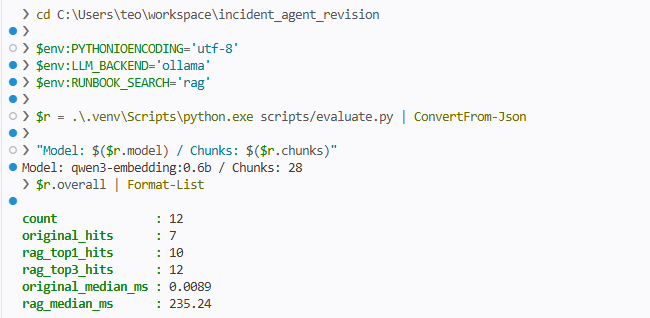
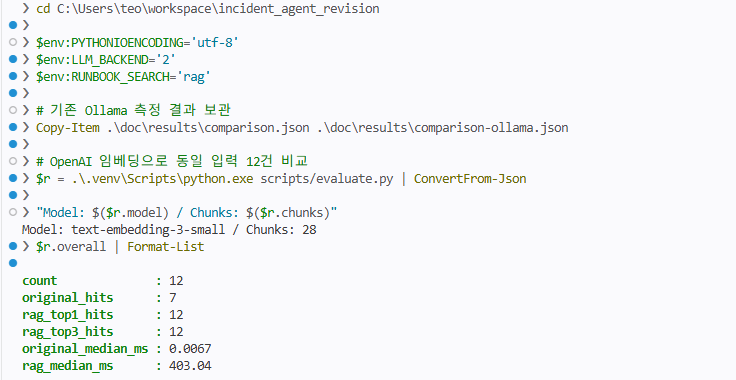
OpenAI 임베딩 검색 비교 결과 반영

Changed region(s): [[0.0, 0.0, 0.8, 0.9906]]

diff --git a/README.md b/README.md
@@ -136,7 +136,7 @@ scripts/                  설치·실행·검증 명령
 
 ![실제 OpenAI 모델의 조사·검증·최종 답변 실행 결과](docs/screenshots/final-result.png)
 
-위 기능 화면은 실제 OpenAI 모델(gpt-4o-mini·gpt-4o)과 text-embedding-3-small 임베딩 검색을 연결해 촬영했다. 자동 테스트에서는 fake 모델을 사용하고, 검색 비교는 Ollama 임베딩의 측정값을 별도로 유지한다.
+위 기능 화면은 실제 OpenAI 모델(gpt-4o-mini·gpt-4o)과 text-embedding-3-small 임베딩 검색을 연결해 촬영했다. 자동 테스트에서는 fake 모델을 사용하고, 검색 비교는 같은 OpenAI 임베딩으로 별도 측정했다.
 
 ### 시연 입력
 
@@ -175,15 +175,15 @@ MCP 하위 프로세스는 실제로 연결하며, 그래프의 `search_runbook`
 
 ### 검색 개선 전후
 
-질문 6개를 `알림 있음`과 `질문만 있음`으로 나눈 고정 입력 12건을 사용했다. 기존 규칙은 원본의 키워드 분류와 미매칭 시 DB Down 선택을 재현했다. RAG는 `qwen3-embedding:0.6b`를 사용했다.
+질문 6개를 `알림 있음`과 `질문만 있음`으로 나눈 고정 입력 12건을 사용했다. 기존 규칙은 원본의 키워드 분류와 미매칭 시 DB Down 선택을 재현했다. RAG는 OpenAI의 `text-embedding-3-small`을 사용했다.
 
 | 입력 조건 | 기존 규칙 | RAG 첫 문단 | RAG 상위 3개 문단 |
 |---|---:|---:|---:|
-| 알림 있음 · 6건 | 6/6 | 5/6 | 6/6 |
-| 질문만 있음 · 6건 | 1/6 | 5/6 | 6/6 |
-| 정답 문서 포함 · 합계 | 7/12 | 10/12 | 12/12 |
+| 알림 있음 · 6건 | 6/6 | 6/6 | 6/6 |
+| 질문만 있음 · 6건 | 1/6 | 6/6 | 6/6 |
+| 정답 문서 포함 · 합계 | 7/12 | 12/12 | 12/12 |
 
-검색 지연 중앙값은 규칙 **0.0089ms**, RAG **235.24ms**였다. 최초 28개 문단의 임베딩 생성은 별도로 약 **1.45초**가 걸렸다.
+검색 지연 중앙값은 규칙 **0.0067ms**, RAG **403.04ms**였다. 최초 28개 문단의 임베딩 생성은 별도로 약 **1.89초**가 걸렸다.
 
 알림이 비어 있는 CPU 질문에서 기존 규칙은 DB Down을 선택했지만, RAG는 CPU 매뉴얼을 상위 결과에 포함했다. 자연어 질문에서 검색 범위가 개선되는 대신 지연이 추가됐다.
 
